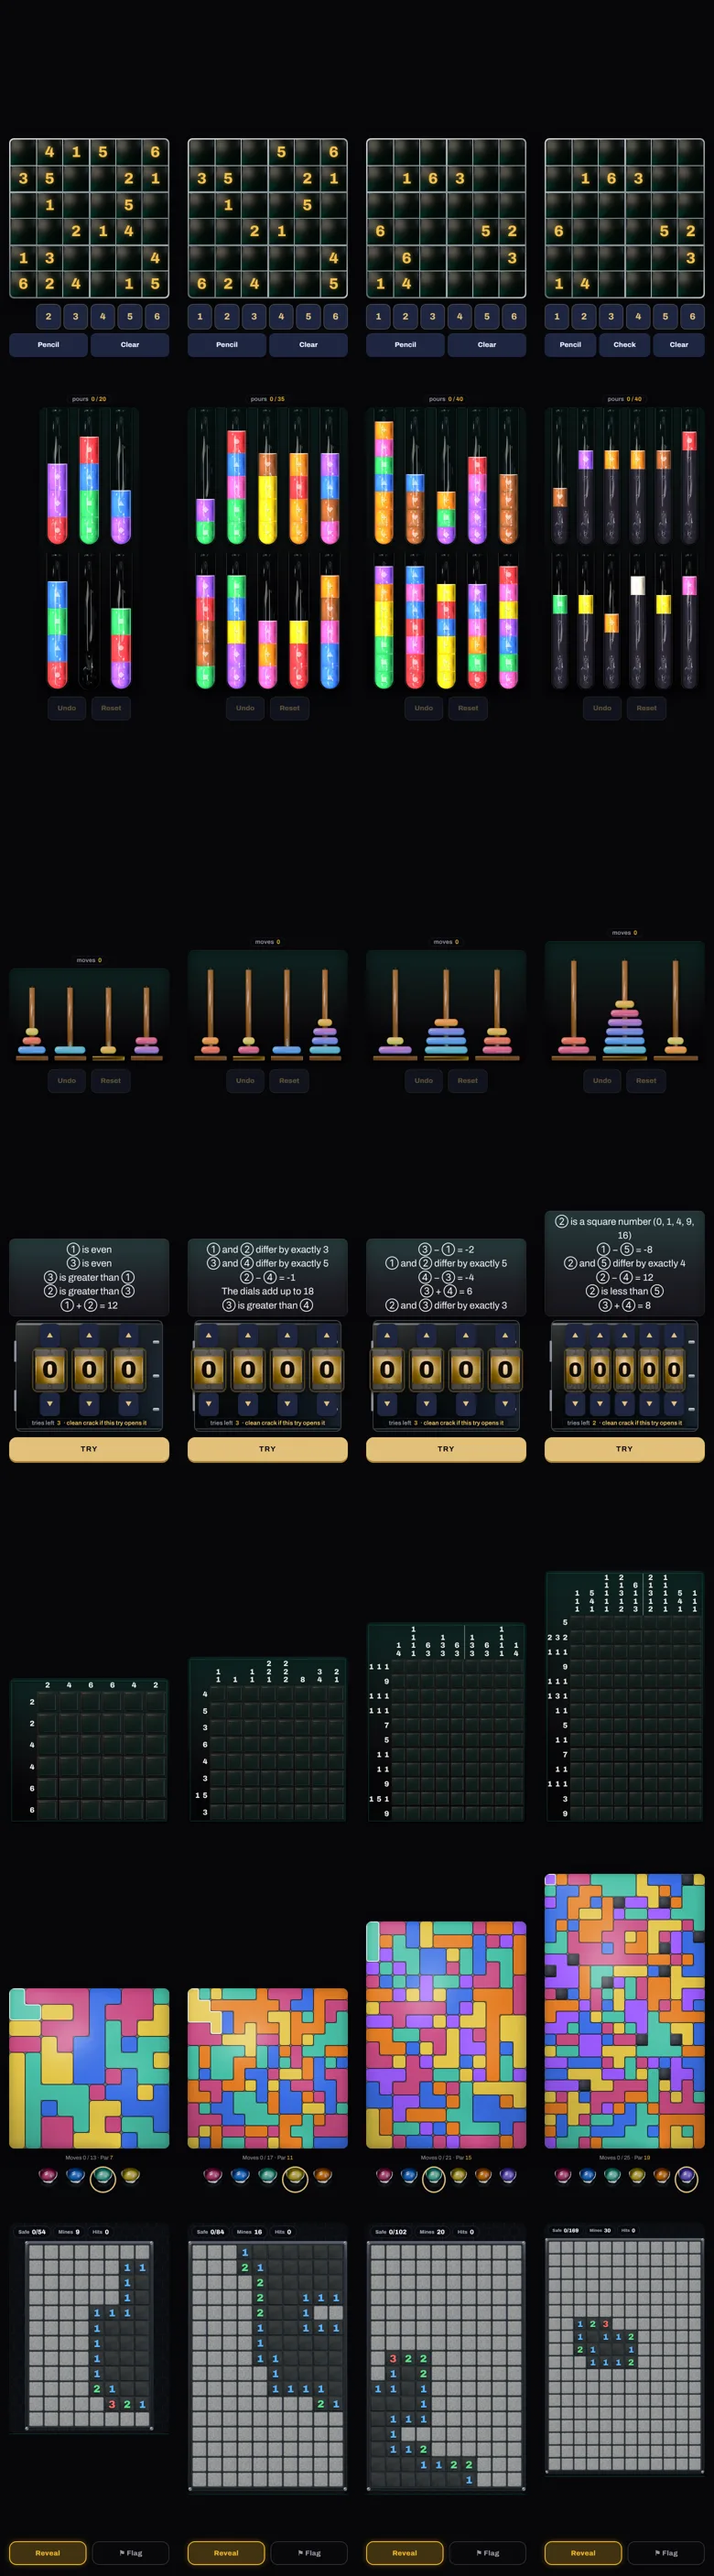
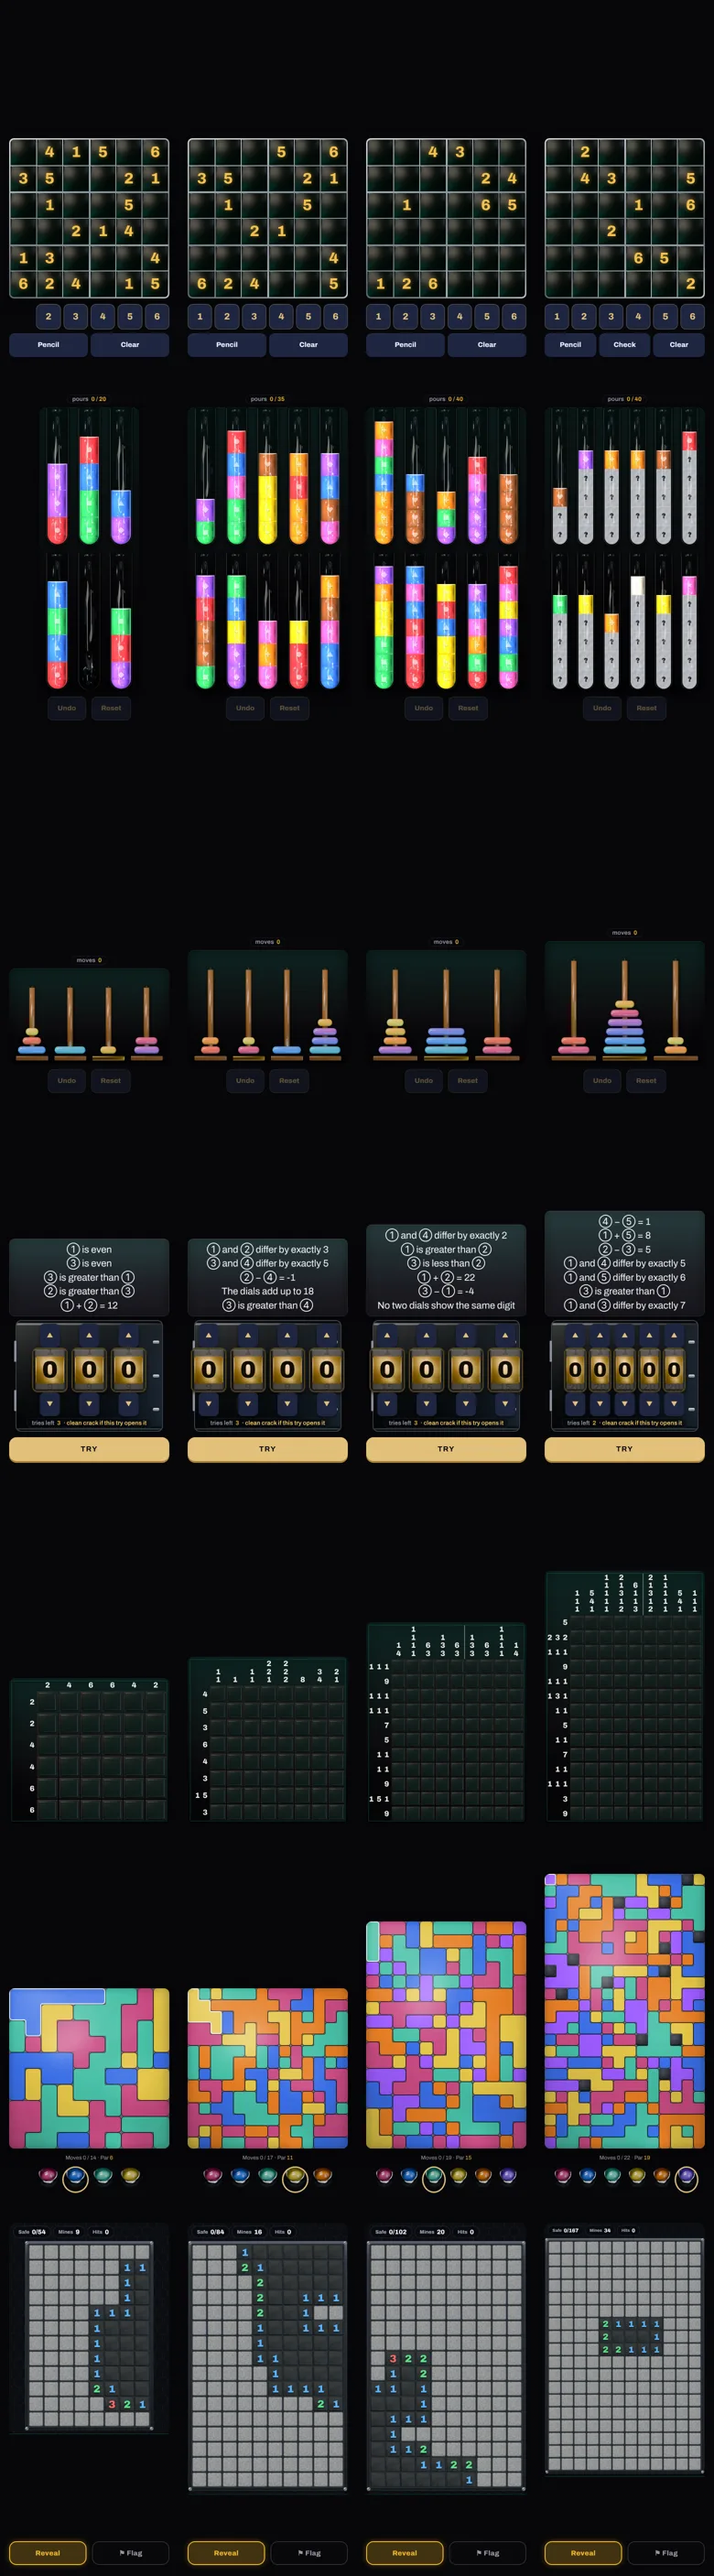
Logic levels round 2: gallery (measurements under human limits, contact sheet, hidden grey), Minefield levels doc, level shots helper
Claude-Session: https://claude.ai/code/session_011WK1FfJdziycJ6WgLzFLEC

diff --git a/scripts/shots/level-shots.ts b/scripts/shots/level-shots.ts
@@ -15,7 +15,9 @@ const args = process.argv.slice(2);
 const opt = (n: string) => args.find((a) => a.startsWith(`--${n}=`))?.slice(n.length + 3);
 const OUT = opt("out") ?? "/tmp/claude-0/level-shots";
 const URL_ = opt("url") ?? "http://127.0.0.1:5191";
-const GAMES = ["sudoku", "tubes", "tower", "safe", "nonogram", "flood", "minesweeper"] as const;
+const ALL_GAMES = ["sudoku", "tubes", "tower", "safe", "nonogram", "flood", "minesweeper"] as const;
+const named = args.filter((a) => !a.startsWith("--")) as (typeof ALL_GAMES)[number][];
+const GAMES = named.length ? named : ALL_GAMES;
 const LEVELS = ["easy", "normal", "hard", "expert"] as const;
 mkdirSync(OUT, { recursive: true });
 

diff --git a/docs/design/pages-review/logic-1/GALLERY.md b/docs/design/pages-review/logic-1/GALLERY.md
@@ -14,15 +14,47 @@ clock is over 120 s.
 
 | Game | Easy | Hard | Expert |
 |---|---|---|---|
-| Box Six | 19–21 givens, singles only, digits leave the keypad once placed six times | 10–12 givens, needs a pair / pointing / box-line step | 9–10 givens, an advanced step, clashes only on Check, 120 s |
-| Polypotions | 6 flasks, 4 colours, 4 layers | 10 flasks, 8 colours, 7 layers, min 26–34, 120 s | 12 flasks, 10 colours (teal and pearl added), 6 layers, min 28–38, hidden layers, 120 s |
-| Hanoi | 4 posts, 7 rings, 10–18 moves | 3 posts, 9 rings, 30–45, 120 s | 3 posts, 10 rings, 45–60, 120 s |
-| Safe Cracker | 3 dials of 0–9, 5 simple clues | 4 dials of 0–15, primes / squares / differences, 90 s | 5 dials of 0–20, 6 clues, 2 tries, 120 s |
+| Box Six | 19–21 givens, singles only, digits leave the keypad once placed six times | 10–12 givens, needs an advanced step (pair / pointing / box-line), bank of 200 | 9–10 givens, needs two advanced steps, clashes only on Check, 90 s, bank of 200 |
+| Polypotions | 6 flasks, 4 colours, 4 layers | 10 flasks, 8 colours, 7 layers, min 26–34, 120 s | 12 flasks (two empty), 10 colours, 6 layers, min 28–38, hidden layers in light grey with a ?, 120 s |
+| Hanoi | 4 posts, 7 rings, 10–18 moves | 3 posts, 9 rings, 34–45, 90 s | 3 posts, 10 rings, 45–60, 105 s |
+| Safe Cracker | 3 dials of 0–9, 5 simple clues | 4 dials of 0–15, 6 clues, primes / squares / differences, 75 s | 5 dials of 0–20, 7 clues, 2 tries, 105 s, bank of 200 |
 | Mosaic | 6 × 6, single-line logic, a matched line crosses its gaps, 90 s | 9 × 11 (grown downwards), single-line logic | 9 × 14, needs two lines together, 120 s |
-| Colour Flood | 10 × 10, 4 colours, par 7–9 | 12 × 17, 6 colours (violet added), par 14–18, 75 s | 14 × 24, 6 colours, 14 stones, par 18–20, 90 s |
-| Minefield | 8 × 12, 9 mines, opening 25–40 | today's 10 × 16, 20 mines (minesRev 2) | 12 × 18, 30 mines, opening 10–20, 120 s |
+| Colour Flood | 10 × 10, 4 colours, par 6–8, par + 8 moves | 12 × 17, 6 colours (violet added), par 14–18, par + 4, 60 s | 14 × 24, 6 colours, 14 stones, par 18–20, par + 3, 75 s |
+| Minefield | 8 × 12, 9 mines, opening 25–40, full speed by 22 s | today's 10 × 16, 20 mines (minesRev 2) | 12 × 18, 34 mines, opening 8–16, 120 s, full speed by 50 s |
 
-The level boards at 390 × 844 (practice, a real deal at each level):
+Normal on every game is today's game, except Minefield's gentler 16-mine minesRev 3 (full speed by 37 s, as Hard).
+
+**Measured under human limits** (16 Nov 2026; `bun scripts/logic-1-tune.ts`: the shared tool's bots on 20 real deals a
+level, every step at least 0.25 s to react plus 0.15 s to move after the one before, #444's model; graded by the
+server). Great bot average (finished) / near-perfect average (finished), and Expert's best tenth:
+
+| Game | Easy | Normal | Hard | Expert | Expert best tenth (great / near) |
+|---|---|---|---|---|---|
+| Box Six | 197.0 / 198.9 | 184.5 / 199.1 | 159.7 (85 %) / 193.1 | 129.6 (35 %) / 184.7 | 164 / 193 |
+| Polypotions | 200 / 200 | 195.0 / 200 | 185.6 / 197.3 | 129.1 (25 %) / 181.9 | 171 / 188 |
+| Hanoi | 199.3 / 200 | 195.3 / 199.8 | 181.2 / 199.3 | 169.2 (95 %) / 192.1 | 179.5 / 198 |
+| Safe Cracker | 200 / 200 | 193.9 / 200 | 182.0 (95 %) / 194.5 | 173.6 (95 %) / 186.8 | 185.5 / 196 |
+| Mosaic | 197.4 / 199.7 | 193.4 / 198.8 | 158.4 (90 %) / 189.9 | 126.0 (30 %) / 182.1 | 159 / 191.5 |
+| Colour Flood | 198.8 / 199.0 | 197.4 / 198.3 | 188.3 / 196.7 | 166.3 (75 %) / 192.1 | 193 / 198 |
+| Minefield | 199.1 / 200 | 194.6 (90 %) / 200 | 188.9 (95 %) / 196.4 | 174.2 (85 %) / 191.0 | 187 / 194 |
+
+`scripts/logic-1-steps-check.ts` replays this on the same deals and fails unless every level is clearly below the one
+before for the great bot (Easy at least 1 above Normal, which is today's game near the ceiling; Normal → Hard and Hard →
+Expert at least 5 each), the near-perfect bot never rises, and Expert stays scoreable (the near-perfect bot finishes 75 %
+or more and its best tenth is 185 or more).
+
+**Polypotions' hidden layers** (Joe, 16 Nov 2026) are a light frosted grey with a dark "?", its luminance between the
+darker liquids and green / pearl / yellow, so it never reads as a liquid:
+
+<img src="img/tubes-hidden-grey.webp" width="300" alt="Polypotions Expert: hidden layers in light grey">
+
+**Intro demos**: the six puzzle games' demos were recorded by real play of each fixed intro example on Normal (the
+practice page's "Intro examples" mode, the real stage, the touches captured as the Save button sends them) and bundled
+with the app (`src/lib/duel/bundledDemos/logic1.ts`); a live saved demo on today's presentation still wins. Minefield's
+demo is its run on the intro example deal (`scripts/fixtures/logic-demos.json`), saved after the merge by
+`scripts/logic-demos-save.ts`.
+
+The level boards at 390 × 844 (a real deal at each level, drawn by the game's own stage; columns Easy, Normal, Hard, Expert):
 
 <img src="img/levels-sheet.webp" width="700" alt="Every game at Easy, Hard and Expert">
 

diff --git a/docs/arcade-standard/minesweeper.md b/docs/arcade-standard/minesweeper.md
@@ -2,16 +2,16 @@
 
 ## Levels (15 Nov 2026, the Logic overhaul; Joe: "too-hard games: today's becomes Hard")
 
-Normal now deals **minesRev 3**: 10 × 16, **16 mines**, opening 20–60, 90 s, Speed full by **29 s** (the near-perfect
-bots' median clear on minesRev 3). Today's minesRev 2 (20 mines, full by 37 s) is the **Hard** level, dealt with
-`level: "hard"` and played exactly as before. Easy is **minesRev 4** (8 × 12, 9 mines, opening 25–40, 90 s, full by 18 s)
-and Expert **minesRev 5** (12 × 18, 30 mines, opening 10–20, **120 s**, full by 61 s; twelve columns rather than 10 × 22,
-since the board is height-bound on a phone, so the squares stay larger). Each revision's board, clock and speed line
-come from `minesGeoFor(rev)`; the parts and their 200 are rev 1's; every board is dealt by the same rule (the logic
-solver clears it from the opening, never a guess). Rev 1 and 2 rounds replay and score exactly as before
-(minefield-logic-check, cards-board-check); logic-1-levels-check proves every level's boards. Near-perfect / elite
-bots (`bun scripts/level-tune.ts minesweeper --level=all`): Easy 200 / 200, Normal 200 / 200, Hard 197.5 / 199.8,
-Expert 197.0 / 200.0.
+Normal now deals **minesRev 3**: 10 × 16, **16 mines**, opening 20–60, 90 s, Speed full by **37 s** (as Hard; Joe, 16
+Nov 2026, so Normal stays a clear step below Hard). Today's minesRev 2 (20 mines, full by 37 s) is the **Hard** level,
+dealt with `level: "hard"` and played exactly as before. Easy is **minesRev 4** (8 × 12, 9 mines, opening 25–40, 90 s,
+full by 22 s) and Expert **minesRev 5** (12 × 18, **34 mines**, opening **8–16**, **120 s**, full by **50 s**; twelve
+columns rather than 10 × 22, since the board is height-bound on a phone). Each revision's board, clock and speed line come
+from `minesGeoFor(rev)`; the parts and their 200 are rev 1's; every board is dealt by the same rule (the logic solver
+clears it from the opening, never a guess). Rev 1 and 2 rounds replay and score exactly as before (minefield-logic-check,
+cards-board-check); logic-1-levels-check proves every level's boards and logic-1-steps-check the steps. Under human
+limits (`bun scripts/logic-1-tune.ts minesweeper`, 20 deals): great 199.1 / 194.6 / 188.9 / 174.2, near-perfect
+200 / 200 / 196.4 / 191.0 (Easy / Normal / Hard / Expert).
 
 Live before the levels: **minesRev 2**, a **Logic** game with **20 mines** (13 Nov 2026, the next section). Everything from "Arcade, Cards &
 Board group" down describes **minesRev 1** (30 Oct 2026, 25 mines, an Arcade game), which older rounds still replay and
